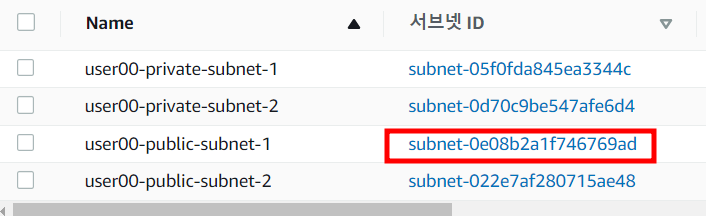
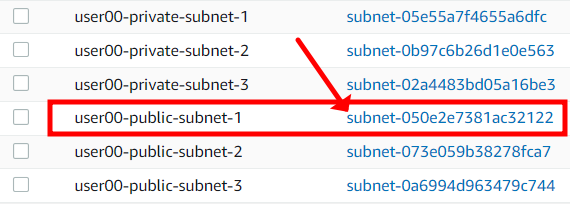
ㅇㅇ

diff --git a/task/L1T0.md b/task/L1T0.md
@@ -18,6 +18,14 @@
 
 ![](../img/L1T0-4.png)
 
+필터링 검색란에 user## 을 검색하고 하단에 출력되는 vpc를 선택 후 작업, vpc 설정 편집 클릭
+
+![](../img/L1T0-4-2.png)
+
+아래 그림처럼 선택후 저장 클릭
+
+![](../img/L1T0-4-3.png)
+
 5. 좌측 메뉴 서브넷 - 우측 서브넷 생성 클릭 
 
 ![](../img/L1T0-5.png)
@@ -77,9 +85,8 @@ IPv4 CIDR : 192.168.6.0/24
 
 ![](../img/L1T0-9.png)
 
-10. 8~9번 과정을 반복하여 user##-public-subet-2 동일하게 설정
+10. 8~9번 과정을 반복하여 user##-public-subet-2, user##-public-subet-3 도  동일하게 설정
 
-![](../img/L1T0-10.png)
 
 11. 좌측 메뉴 중 인터넷게이트웨이 클릭 - 인터넷 게이트웨이 생성 클릭
 
